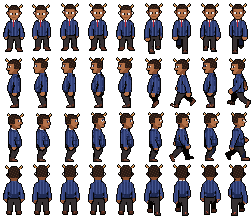
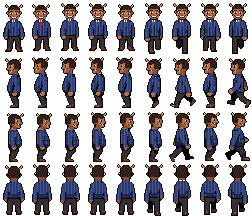
Exchange: Toro's face, not cross-eyed, with brows and his grin
folk6's pupils sat on the inner edge of each eye, which read as cross-eyed.
tools/toro_art.py now redraws his face on every front and side frame: heavy
brows, dark eyes with the pupil centred, a nose and cheek shading, and his
toothy grin, after his bust. Stray eye whites on his outline go.

Claude-Session: https://claude.ai/code/session_011frerxxukRKLGeG1JTVqs2

diff --git a/game/tools/toro_art.py b/game/tools/toro_art.py
@@ -45,10 +45,13 @@ def remap(c, in_head):
     if s < 0.13 and v >= 130: return step(SUIT_RAMP, v + 40)                                 # shirt sleeves
     return None
 
+NAVY = {hexc(c) for _, c in SUIT_RAMP} | set(REMAP[hexc(h)] for h in ('#eae8e6', '#ada7a5', '#b9b1ae', '#9d9491'))
 PALE = {hexc(h) for h in ('#f3c2ad', '#dda790', '#c9907b', '#b58579', '#9d7364')}
 EYE = hexc('#eae8e6')
 SKIN = {hexc(c) for _, c in SKIN_RAMP} | {hexc(h) for h in ('#b47148', '#a0603c', '#8a4f30', '#7f4630', '#6e3c24')}
 SUIT = {hexc('#2c3a6e'), hexc('#34437c'), hexc('#26315f'), hexc('#2e3c72')}
+PUPIL, BROW, MOUTH = hexc('#1a0f0a'), hexc('#2b1b14'), hexc('#4a1a12')
+BASE, SHADE, DARK = hexc('#b47148'), hexc('#a0603c'), hexc('#7f4630')
 INK, HAIR, CURL = hexc('#050302'), hexc('#2b1b14'), hexc('#4a3024')
 HORN, TIP, WHITE, TIE, KNOT = hexc('#d08a4a'), hexc('#f0d098'), hexc('#f1efef'), hexc('#c4262f'), hexc('#8e1a22')
 
@@ -90,6 +93,58 @@ for r in range(ROWS):
             on = y <= top + 3 or (face == 'back' and y <= chin - 3) or \
                 (face == 'west' and x >= cx + 1 and y <= top + 8) or (face == 'east' and x <= cx - 1 and y <= top + 8)
             if on: px[x, y] = CURL if (x * 2 + y) % 5 == 0 else HAIR
+        # His face from the front, drawn the same on every south frame from where folk6's eyes are: folk6's pupils sit
+        # on the inner edge of each eye, which reads as cross-eyed, and the idle frames light the edges of his head with
+        # stray whites. So the face is cleared to skin and drawn again after his bust: heavy brows, eyes with the pupil
+        # in the middle, a broad nose, cheeks, and his big grin with its teeth.
+        if face == 'south':
+            whites = [(x, y) for x, y in eyes if px[x, y] == EYE and abs(x - cx - 0.5) <= 5]
+            left, right = [p for p in whites if p[0] <= cx], [p for p in whites if p[0] > cx]
+            if left and right:
+                lx, rx, ey = min(x for x, _ in left), min(x for x, _ in right), min(y for _, y in whites)
+                for y in range(ey - 2, ey + 6):
+                    for x in range(lx - 1, rx + 3): px[x, y] = BASE
+                for y in range(top, chin + 1):
+                    for x in range(max(0, hl - 1), min(W, hr + 2)):
+                        if px[x, y] == EYE: px[x, y] = SHADE
+                face_px = {
+                    BROW: [(lx - 1, ey - 1), (lx, ey - 2), (lx + 1, ey - 2), (lx + 2, ey - 2),
+                           (rx + 2, ey - 1), (rx + 1, ey - 2), (rx, ey - 2), (rx - 1, ey - 2)],
+                    EYE: [(lx, ey), (lx + 2, ey), (rx - 1, ey), (rx + 1, ey)],
+                    PUPIL: [(lx + 1, ey), (lx + 1, ey + 1), (rx, ey), (rx, ey + 1)],
+                    SHADE: [(lx, ey + 1), (lx + 2, ey + 1), (rx - 1, ey + 1), (rx + 1, ey + 1),
+                            (lx + 3, ey + 2), (lx - 1, ey + 2), (rx + 2, ey + 2)],
+                    DARK: [(lx + 3, ey + 3), (rx - 2, ey + 3)],
+                    MOUTH: [(lx, ey + 3), (rx + 1, ey + 3), (lx + 1, ey + 4), (rx, ey + 4)] + [(x, ey + 5) for x in range(lx + 2, rx)],
+                    WHITE: [(x, ey + 4) for x in range(lx + 2, rx)],
+                }
+                for c, pts in face_px.items():
+                    for x, y in pts: px[x, y] = c
+        # From the side: the same brow, a dark eye set back from his profile with its white behind it, and the front of
+        # his grin, a tooth and a mouth corner.
+        if face in ('west', 'east'):
+            whites = [(x, y) for x, y in eyes if px[x, y] == EYE]
+            i = 1 if face == 'west' else -1
+            def edge(y):
+                xs = range(W) if i == 1 else range(W - 1, -1, -1)
+                return next((x for x in xs if px[x, y] in SKIN or px[x, y] == EYE), None)
+            ey = min((y for _, y in whites), default=None)
+            if ey is not None and edge(ey) is not None:
+                for x, y in whites: px[x, y] = BASE
+                for y in range(top, chin + 1):     # folk6's own eye, where it sat on the outline
+                    for x in range(W):
+                        if px[x, y] == hexc('#2b2340') or px[x, y] in NAVY:
+                            out_ = any(not (0 <= x + dx < W) or not px[x + dx, y][3] for dx in (-1, 1))
+                            px[x, y] = INK if out_ else BASE
+                e = edge(ey)
+                for y in range(ey - 2, ey + 2):
+                    for k in range(1, 5): px[e + i * k, y] = BASE
+                for k in (1, 2, 3): px[e + i * k, ey - 2] = BROW
+                px[e + i * 2, ey] = PUPIL; px[e + i * 2, ey + 1] = PUPIL; px[e + i * 3, ey] = EYE
+                px[e + i * 3, ey + 1] = SHADE; px[e + i, ey + 2] = SHADE
+                m = edge(ey + 4)
+                if m is not None:
+                    px[m, ey + 4] = MOUTH; px[m + i, ey + 4] = WHITE; px[m + i * 2, ey + 4] = MOUTH; px[m + i * 3, ey + 3] = MOUTH
         # Collar and tie when he faces you.
         if face == 'south':
             for dx in (-1, 0, 1): px[cx + dx, chin + 1] = WHITE
